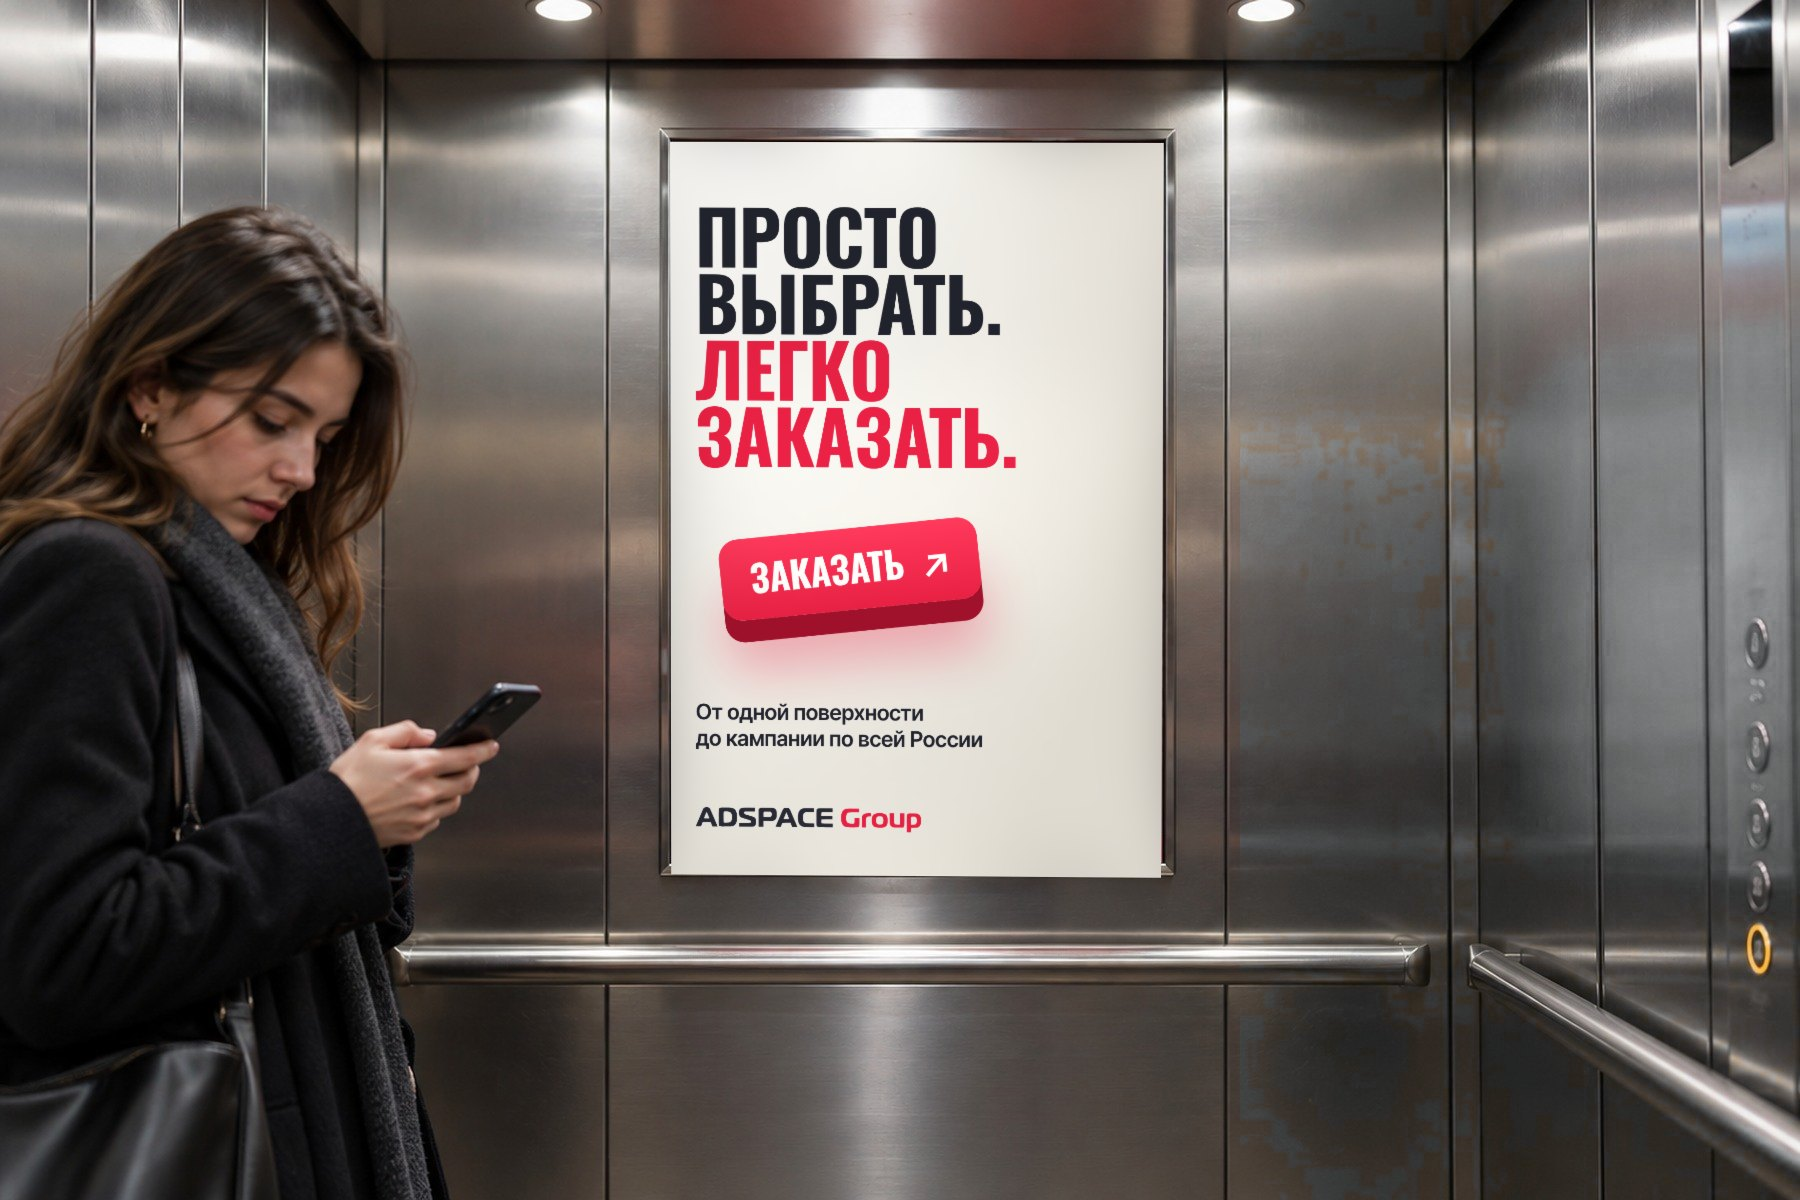
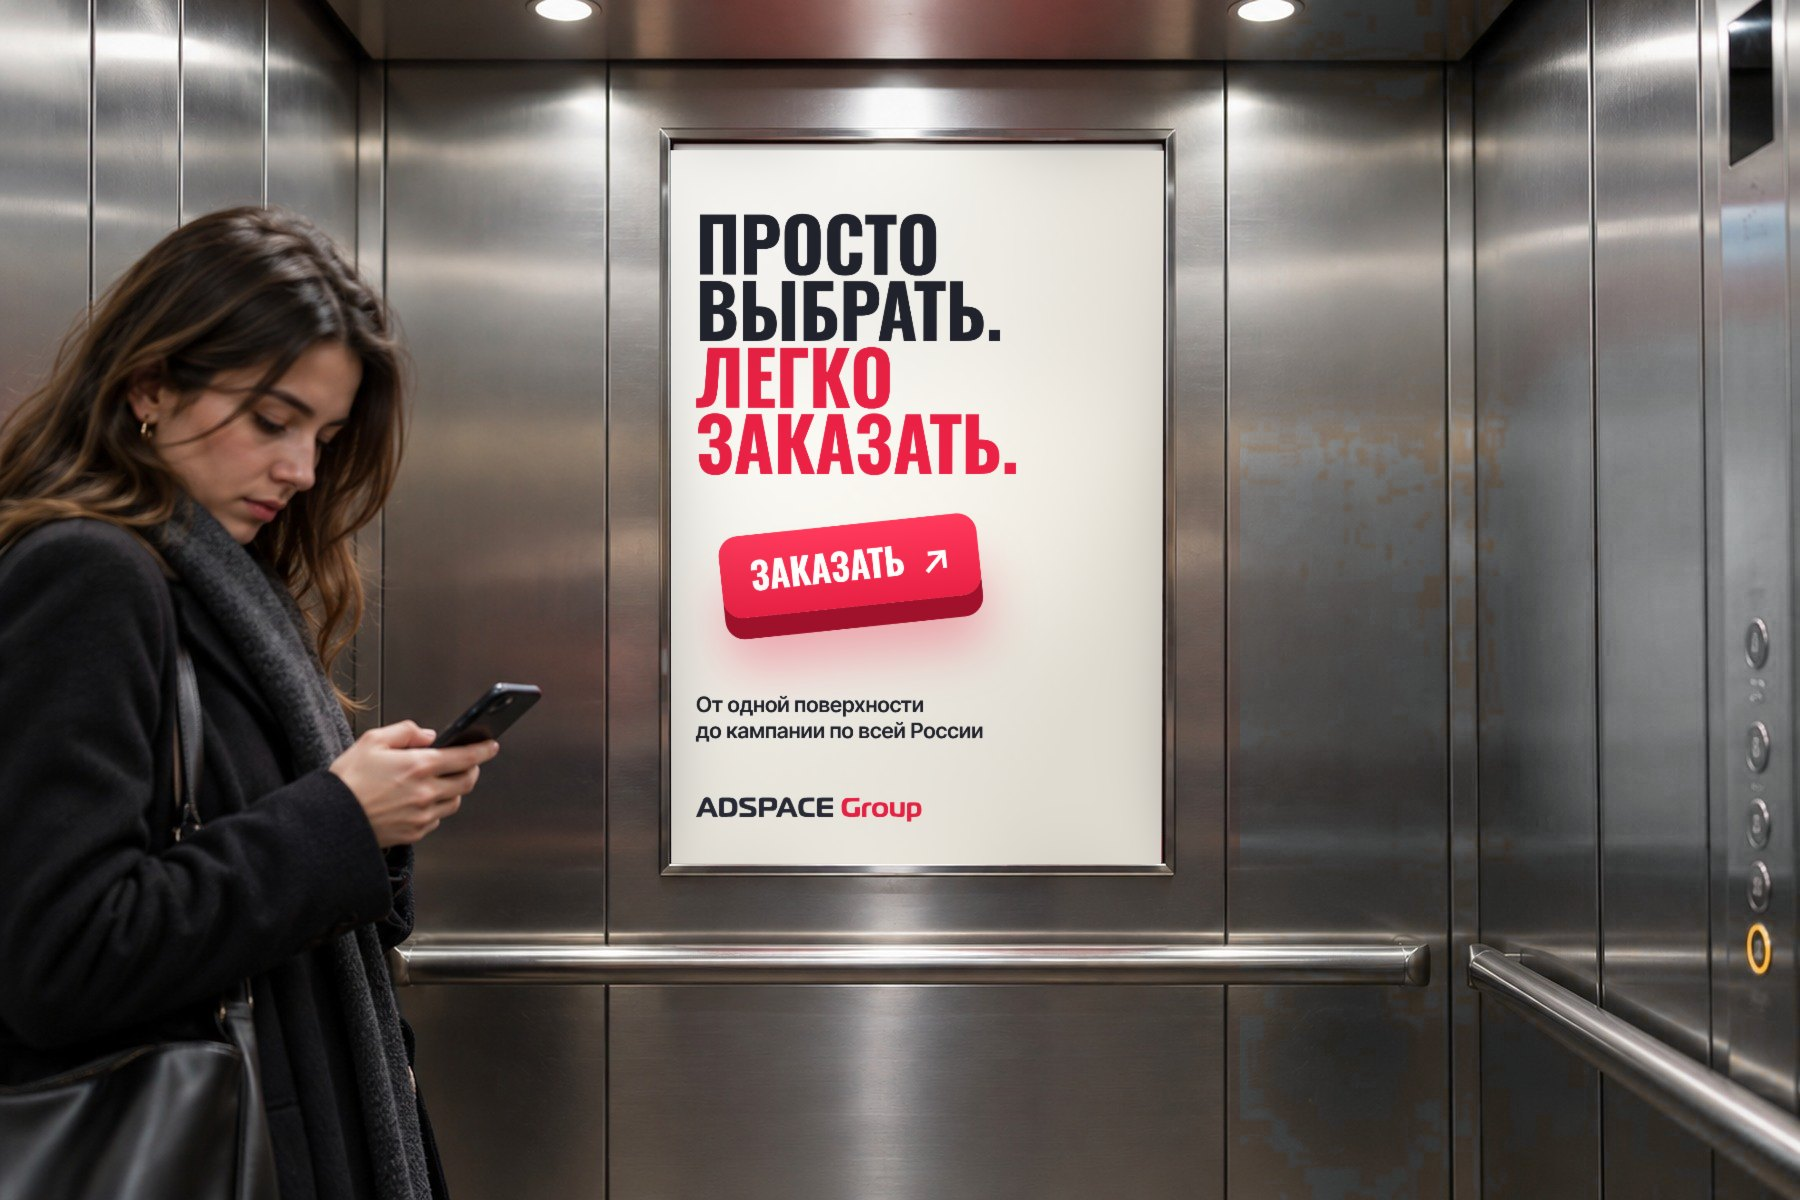
design: лифт — креатив не заходит на нижнюю рамку; автобус — обрезка по арке колеса
Claude-Session: https://claude.ai/code/session_01CFMEvSXYkXRcRwr9i8XWTo

diff --git a/design/tools/creatives/hybrid.py b/design/tools/creatives/hybrid.py
@@ -6,7 +6,7 @@ def side_line(p,i):
     a,b=p[i],p[(i+1)%4]; u=(b-a)/np.linalg.norm(b-a); return u,a
 for f in V1:
     p1=np.array(V1[f]['pts'],np.float32); p2=np.array(V2[f]['pts'],np.float32); c=p2.mean(0)
-    span=min(np.linalg.norm(p2[1]-p2[0]),np.linalg.norm(p2[3]-p2[0])); tol=max(12,0.03*span)
+    span=min(np.linalg.norm(p2[1]-p2[0]),np.linalg.norm(p2[3]-p2[0])); tol=max(8,0.015*span)
     lines=[]; pick=[]
     for i in range(4):
         u1,a1=side_line(p1,i); u2,a2=side_line(p2,i)
@@ -15,7 +15,14 @@ for f in V1:
         if d>tol:
             # край красной полосы снаружи этой стороны
             im=cv2.imread('orig/'+f); hsv=cv2.cvtColor(im,cv2.COLOR_BGR2HSV)
-            red=(((hsv[...,0]<12)|(hsv[...,0]>165))&(hsv[...,1]>60)&(hsv[...,2]>50))
+            red=((((hsv[...,0]<12)|(hsv[...,0]>165))&(hsv[...,1]>60)&(hsv[...,2]>50))).astype(np.uint8)
+            mm=np.zeros(red.shape,np.uint8); cv2.fillPoly(mm,[p2.astype(np.int32)],1)
+            near=cv2.dilate(mm,np.ones((29,29),np.uint8))
+            nl,lb=cv2.connectedComponents(red&near)
+            core=np.unique(lb[(mm>0)&(red>0)]); core=core[core>0]
+            # только компоненты, у которых основная часть внутри постера (сама полоса)
+            keep=[k for k in core if ((lb==k)&(mm>0)).sum()>0.6*(lb==k).sum()]
+            red=np.isin(lb,keep)&(mm==0)
             ys,xs=np.nonzero(red); P=np.stack([xs,ys],1).astype(np.float32)+0.5
             L=np.linalg.norm(p2[(i+1)%4]-p2[i]); rel=P-a2; t=rel@u2/L; off=rel@n
             sel=(t>-0.02)&(t<1.02)&(off>0)&(off<14)

diff --git a/design/tools/creatives/comp_all.py b/design/tools/creatives/comp_all.py
@@ -37,6 +37,19 @@ for f,(cpath,p) in meta.items():
     warped=cv2.warpPerspective(cr,M,(w,h),flags=cv2.INTER_AREA,borderMode=cv2.BORDER_REPLICATE)
     S=4; mbig=np.zeros((h*S,w*S),np.uint8); cv2.fillPoly(mbig,[(p*S).astype(np.int32)],255,lineType=cv2.LINE_AA)
     mask=cv2.resize(mbig,(w,h),interpolation=cv2.INTER_AREA).astype(np.float32)/255
+    if f in ('promo-transit.jpg',):
+        # постер не прямоугольный (арка колеса) — режем по форме исходного постера
+        u8=(im*255).astype(np.uint8); hsv=cv2.cvtColor(u8,cv2.COLOR_BGR2HSV); lab=cv2.cvtColor(u8,cv2.COLOR_BGR2LAB).astype(np.float32)
+        qm=np.zeros((h,w),np.uint8); cv2.fillPoly(qm,[p.astype(np.int32)],1)
+        Lr=np.percentile(lab[...,0][qm>0],70)
+        wh=(lab[...,0]>0.8*Lr)&(np.hypot(lab[...,1]-128,lab[...,2]-128)<18)
+        rd=(((hsv[...,0]<12)|(hsv[...,0]>165))&(hsv[...,1]>70)&(hsv[...,2]>60))
+        sm=((wh|rd)&(cv2.dilate(qm,np.ones((9,9),np.uint8))>0)).astype(np.uint8)*255
+        sm=cv2.morphologyEx(sm,cv2.MORPH_CLOSE,np.ones((15,15),np.uint8))
+        cs,_=cv2.findContours(sm,cv2.RETR_EXTERNAL,cv2.CHAIN_APPROX_NONE)
+        big=max(cs,key=cv2.contourArea); sm=np.zeros((h,w),np.uint8); cv2.drawContours(sm,[big],-1,255,-1)
+        sm=cv2.GaussianBlur(sm.astype(np.float32)/255,(0,0),1.0)
+        mask=np.minimum(mask,np.clip(sm*1.15,0,1))
     L=cv2.cvtColor((im*255).astype(np.uint8),cv2.COLOR_BGR2GRAY).astype(np.float32)/255
     ph=max(8,int(min(np.linalg.norm(p[3]-p[0]),np.linalg.norm(p[1]-p[0]))/6))
     Lc=cv2.GaussianBlur(cv2.dilate(L,np.ones((ph,ph),np.uint8)),(0,0),ph/2)
